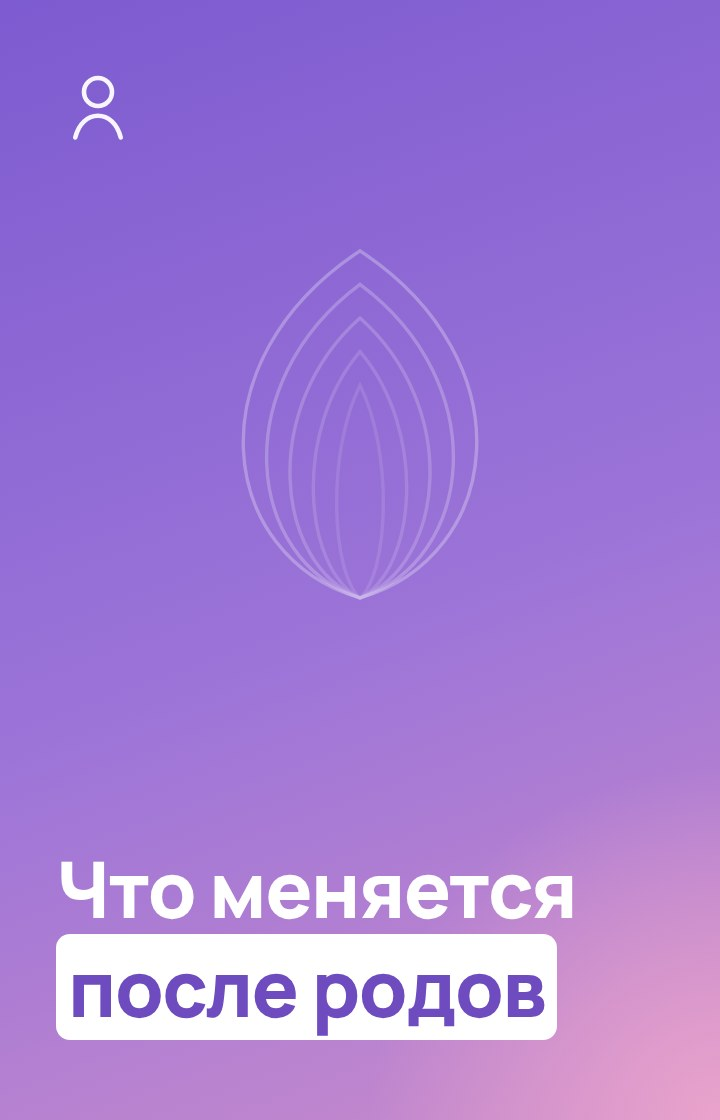
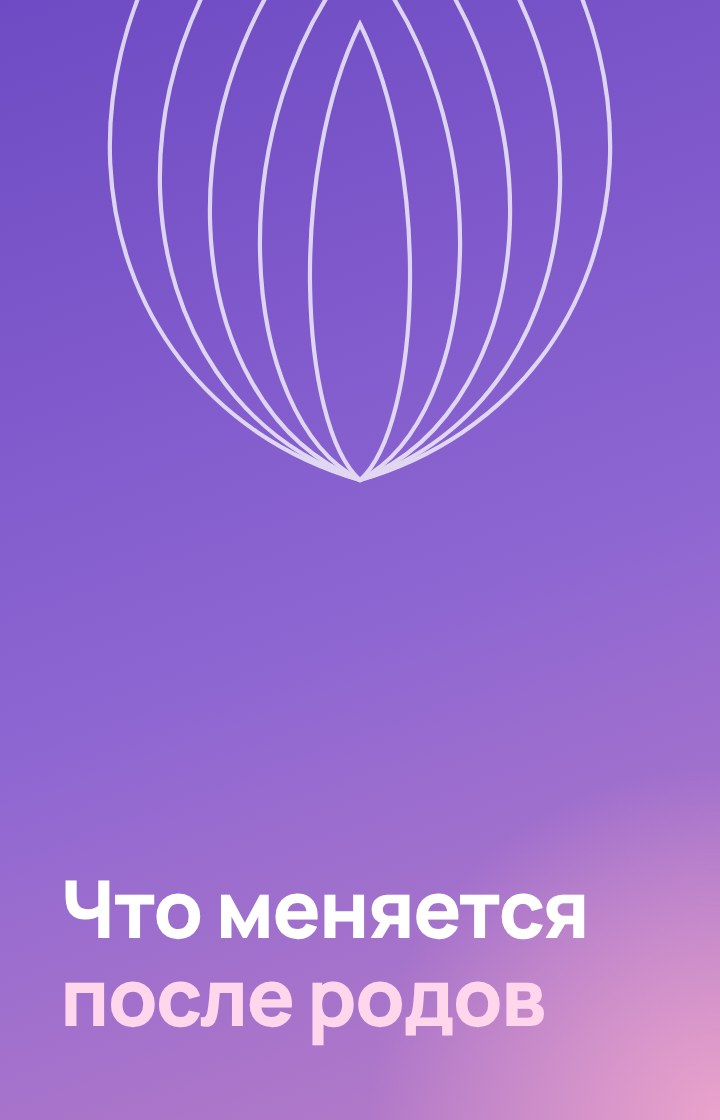
Три разные обложки видео, play не перекрывает лепесток; показатели на главной тренажёра в две ровные строки
Claude-Session: https://claude.ai/code/session_01BQF8mp1bWWr6JzRP7JYi46

diff --git a/app/index.html b/app/index.html
@@ -478,6 +478,26 @@ nav{align-items:center}nav a{display:inline-flex;align-items:center;justify-cont
 .steps-cards .card .ico,#stages .card .ico{transition:transform .5s cubic-bezier(.3,1.6,.5,1) .3s}
 .steps-cards .card:not(.in) .ico,#stages .card:not(.in) .ico{transform:scale(.6)}
 .as[data-s=today]{justify-content:space-between}
+
+/* обложки: кнопка play не перекрывает лепесток */
+.vid .play{padding:18px}
+.vids .vid:nth-child(1) .play,.vids .vid:nth-child(2) .play{align-items:flex-end;justify-content:flex-end}
+.vids .vid:nth-child(3) .play{align-items:flex-start;justify-content:flex-end}
+.vid .play span{width:56px;height:56px;box-shadow:0 8px 20px -8px #2b144080}
+.vids .vid:nth-child(2) .play span{background:linear-gradient(125deg,#8F6BDA,#E59CC6)}
+.vids .vid:nth-child(2) .play span::after{border-left-color:#fff}
+.vids .vid:nth-child(3){box-shadow:inset 0 0 0 2px #ffffffb0}
+.vids .vid:nth-child(3)::after{content:"";position:absolute;inset:0;border-radius:inherit;box-shadow:inset 0 0 0 2px #ffffffa0;pointer-events:none}
+.vids .vid{box-shadow:0 20px 44px -22px #2b1440aa}
+
+/* показатели рядом с кольцом: две одинаковые строки */
+.kp2{display:flex;flex-direction:column;gap:0;align-self:stretch;justify-content:center}
+.kp2 .kpi{display:flex;align-items:center;gap:8px;padding:7px 0}
+.kp2 .kpi+.kpi{border-top:1px solid #ffffff1f}
+.kp2 .kpi i{flex:none;width:26px;height:26px;border-radius:50%;background:#ffffff1a;display:flex;align-items:center;justify-content:center;font-style:normal;font-size:13px}
+.kp2 .kpi i svg{width:14px;height:14px}
+.kp2 .kpi b{font-size:18px;font-weight:800;line-height:1;min-width:14px}
+.kp2 .kpi span{font-size:12px;color:var(--a-mut);line-height:1.2}
 </style><style>
 html,body{height:100%}
 body{background:#1E1730;margin:0;overflow:hidden}
@@ -534,7 +554,7 @@ body{background:#1E1730;margin:0;overflow:hidden}
 </span><div class="grow"><b>Тонус</b><small id="a-date">сегодня</small></div><span class="av" aria-hidden="true">RU</span></div>
         <div class="acard hero-c">
           <div class="pring"><svg viewBox="0 0 100 100"><defs><linearGradient id="pg"><stop offset="0" stop-color="#F2A6C9"/><stop offset="1" stop-color="#C9B4F5"/></linearGradient></defs><circle class="bg" cx="50" cy="50" r="42"/><circle class="fg" id="a-ring" cx="50" cy="50" r="42" stroke-dasharray="263.9" stroke-dashoffset="263.9"/></svg><b><span id="a-day">0</span><small data-kz="21 күннен">из 21 дня</small></b></div>
-          <div class="kpis"><span class="fire">🔥 <span id="a-streak">0</span>&nbsp;<span data-kz="күн қатарынан">дней подряд</span></span><div><b id="a-sets">0</b><span data-kz="жаттығу барлығы">подходов всего</span></div></div>
+          <div class="kpis kp2"><div class="kpi"><i>🔥</i><b id="a-streak">0</b><span data-kz="күн қатарынан">дней подряд</span></div><div class="kpi"><i><svg viewBox="0 0 24 24" fill="none" stroke="#C9B4F5" stroke-width="2.4" stroke-linecap="round" stroke-linejoin="round"><path d="M5 12.5l4.5 4.5L19 7.5"/></svg></i><b id="a-sets">0</b><span data-kz="жаттығу барлығы">подходов всего</span></div></div>
         </div>
         <div class="acard"><h4 data-kz="Апта, минут">Неделя, минут</h4><div class="bars" id="a-bars"></div></div>
         <div class="row2">

diff --git a/index.html b/index.html
@@ -483,6 +483,26 @@ nav{align-items:center}nav a{display:inline-flex;align-items:center;justify-cont
 .steps-cards .card .ico,#stages .card .ico{transition:transform .5s cubic-bezier(.3,1.6,.5,1) .3s}
 .steps-cards .card:not(.in) .ico,#stages .card:not(.in) .ico{transform:scale(.6)}
 .as[data-s=today]{justify-content:space-between}
+
+/* обложки: кнопка play не перекрывает лепесток */
+.vid .play{padding:18px}
+.vids .vid:nth-child(1) .play,.vids .vid:nth-child(2) .play{align-items:flex-end;justify-content:flex-end}
+.vids .vid:nth-child(3) .play{align-items:flex-start;justify-content:flex-end}
+.vid .play span{width:56px;height:56px;box-shadow:0 8px 20px -8px #2b144080}
+.vids .vid:nth-child(2) .play span{background:linear-gradient(125deg,#8F6BDA,#E59CC6)}
+.vids .vid:nth-child(2) .play span::after{border-left-color:#fff}
+.vids .vid:nth-child(3){box-shadow:inset 0 0 0 2px #ffffffb0}
+.vids .vid:nth-child(3)::after{content:"";position:absolute;inset:0;border-radius:inherit;box-shadow:inset 0 0 0 2px #ffffffa0;pointer-events:none}
+.vids .vid{box-shadow:0 20px 44px -22px #2b1440aa}
+
+/* показатели рядом с кольцом: две одинаковые строки */
+.kp2{display:flex;flex-direction:column;gap:0;align-self:stretch;justify-content:center}
+.kp2 .kpi{display:flex;align-items:center;gap:8px;padding:7px 0}
+.kp2 .kpi+.kpi{border-top:1px solid #ffffff1f}
+.kp2 .kpi i{flex:none;width:26px;height:26px;border-radius:50%;background:#ffffff1a;display:flex;align-items:center;justify-content:center;font-style:normal;font-size:13px}
+.kp2 .kpi i svg{width:14px;height:14px}
+.kp2 .kpi b{font-size:18px;font-weight:800;line-height:1;min-width:14px}
+.kp2 .kpi span{font-size:12px;color:var(--a-mut);line-height:1.2}
 </style>
 
 <header><div class="wrap hd">
@@ -566,7 +586,7 @@ nav{align-items:center}nav a{display:inline-flex;align-items:center;justify-cont
 </span><div class="grow"><b>Тонус</b><small id="a-date">сегодня</small></div><span class="av" aria-hidden="true">RU</span></div>
         <div class="acard hero-c">
           <div class="pring"><svg viewBox="0 0 100 100"><defs><linearGradient id="pg"><stop offset="0" stop-color="#F2A6C9"/><stop offset="1" stop-color="#C9B4F5"/></linearGradient></defs><circle class="bg" cx="50" cy="50" r="42"/><circle class="fg" id="a-ring" cx="50" cy="50" r="42" stroke-dasharray="263.9" stroke-dashoffset="263.9"/></svg><b><span id="a-day">0</span><small data-kz="21 күннен">из 21 дня</small></b></div>
-          <div class="kpis"><span class="fire">🔥 <span id="a-streak">0</span>&nbsp;<span data-kz="күн қатарынан">дней подряд</span></span><div><b id="a-sets">0</b><span data-kz="жаттығу барлығы">подходов всего</span></div></div>
+          <div class="kpis kp2"><div class="kpi"><i>🔥</i><b id="a-streak">0</b><span data-kz="күн қатарынан">дней подряд</span></div><div class="kpi"><i><svg viewBox="0 0 24 24" fill="none" stroke="#C9B4F5" stroke-width="2.4" stroke-linecap="round" stroke-linejoin="round"><path d="M5 12.5l4.5 4.5L19 7.5"/></svg></i><b id="a-sets">0</b><span data-kz="жаттығу барлығы">подходов всего</span></div></div>
         </div>
         <div class="acard"><h4 data-kz="Апта, минут">Неделя, минут</h4><div class="bars" id="a-bars"></div></div>
         <div class="row2">
